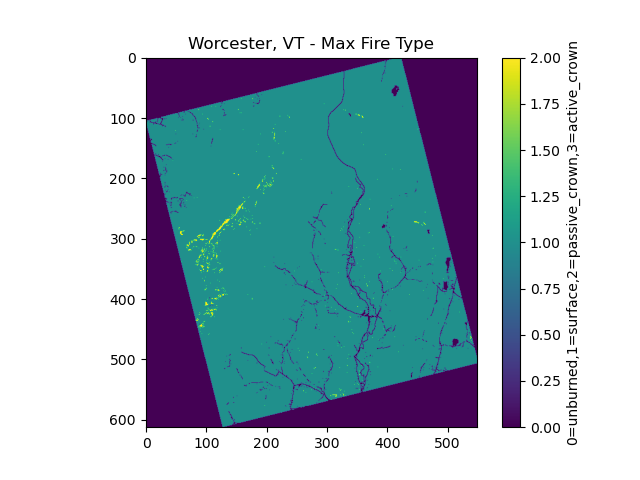
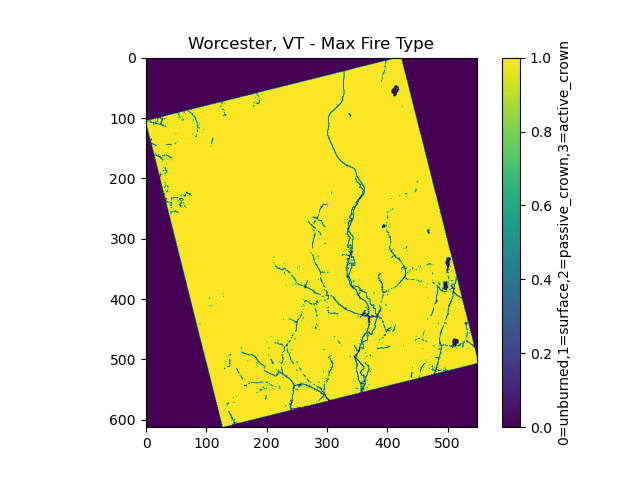
Fixed edge case bug in calc_combined_fire_behavior

Changed region(s): [[0.2188, 0.125, 0.75, 0.9062], [0.8125, 0.0625, 0.9062, 0.9375]]

diff --git a/doc/pyretechnics.html b/doc/pyretechnics.html
@@ -4637,7 +4637,13 @@ follows:
     <span class="org-variable-name">crown_spread_direction</span>   <span class="org-operator">=</span> crown_fire_behavior[<span class="org-string">"spread_direction"</span>]   <span class="org-comment-delimiter"># </span><span class="org-comment">(x, y, z) unit vector</span>
     <span class="org-variable-name">crown_fireline_intensity</span> <span class="org-operator">=</span> crown_fire_behavior[<span class="org-string">"fireline_intensity"</span>] <span class="org-comment-delimiter"># </span><span class="org-comment">kW/m</span>
     <span class="org-comment-delimiter"># </span><span class="org-comment">Determine whether the surface or crown fire has the fastest spread rate</span>
-    <span class="org-keyword">if</span> surface_spread_rate <span class="org-operator">&gt;</span> crown_spread_rate:
+    <span class="org-keyword">if</span> surface_spread_rate <span class="org-operator">==</span> 0.0:
+        <span class="org-comment-delimiter"># </span><span class="org-comment">Independent crown fire (This is probably user error.)</span>
+        <span class="org-keyword">return</span> crown_fire_behavior
+    <span class="org-keyword">elif</span> crown_spread_rate <span class="org-operator">==</span> 0.0:
+        <span class="org-comment-delimiter"># </span><span class="org-comment">No crown fire</span>
+        <span class="org-keyword">return</span> surface_fire_behavior
+    <span class="org-keyword">elif</span> surface_spread_rate <span class="org-operator">&gt;</span> crown_spread_rate:
         <span class="org-comment-delimiter"># </span><span class="org-comment">Surface fire spreads faster</span>
         <span class="org-variable-name">combined_fireline_intensity</span> <span class="org-operator">=</span> (surface_fireline_intensity
                                        <span class="org-operator">+</span> crown_fireline_intensity <span class="org-operator">*</span> surface_spread_rate <span class="org-operator">/</span> crown_spread_rate)

diff --git a/src/pyretechnics/crown_fire.py b/src/pyretechnics/crown_fire.py
@@ -304,7 +304,13 @@ def calc_combined_fire_behavior(surface_fire_behavior, crown_fire_behavior):
     crown_spread_direction   = crown_fire_behavior["spread_direction"]   # (x, y, z) unit vector
     crown_fireline_intensity = crown_fire_behavior["fireline_intensity"] # kW/m
     # Determine whether the surface or crown fire has the fastest spread rate
-    if surface_spread_rate > crown_spread_rate:
+    if surface_spread_rate == 0.0:
+        # Independent crown fire (This is probably user error.)
+        return crown_fire_behavior
+    elif crown_spread_rate == 0.0:
+        # No crown fire
+        return surface_fire_behavior
+    elif surface_spread_rate > crown_spread_rate:
         # Surface fire spreads faster
         combined_fireline_intensity = (surface_fireline_intensity
                                        + crown_fireline_intensity * surface_spread_rate / crown_spread_rate)
